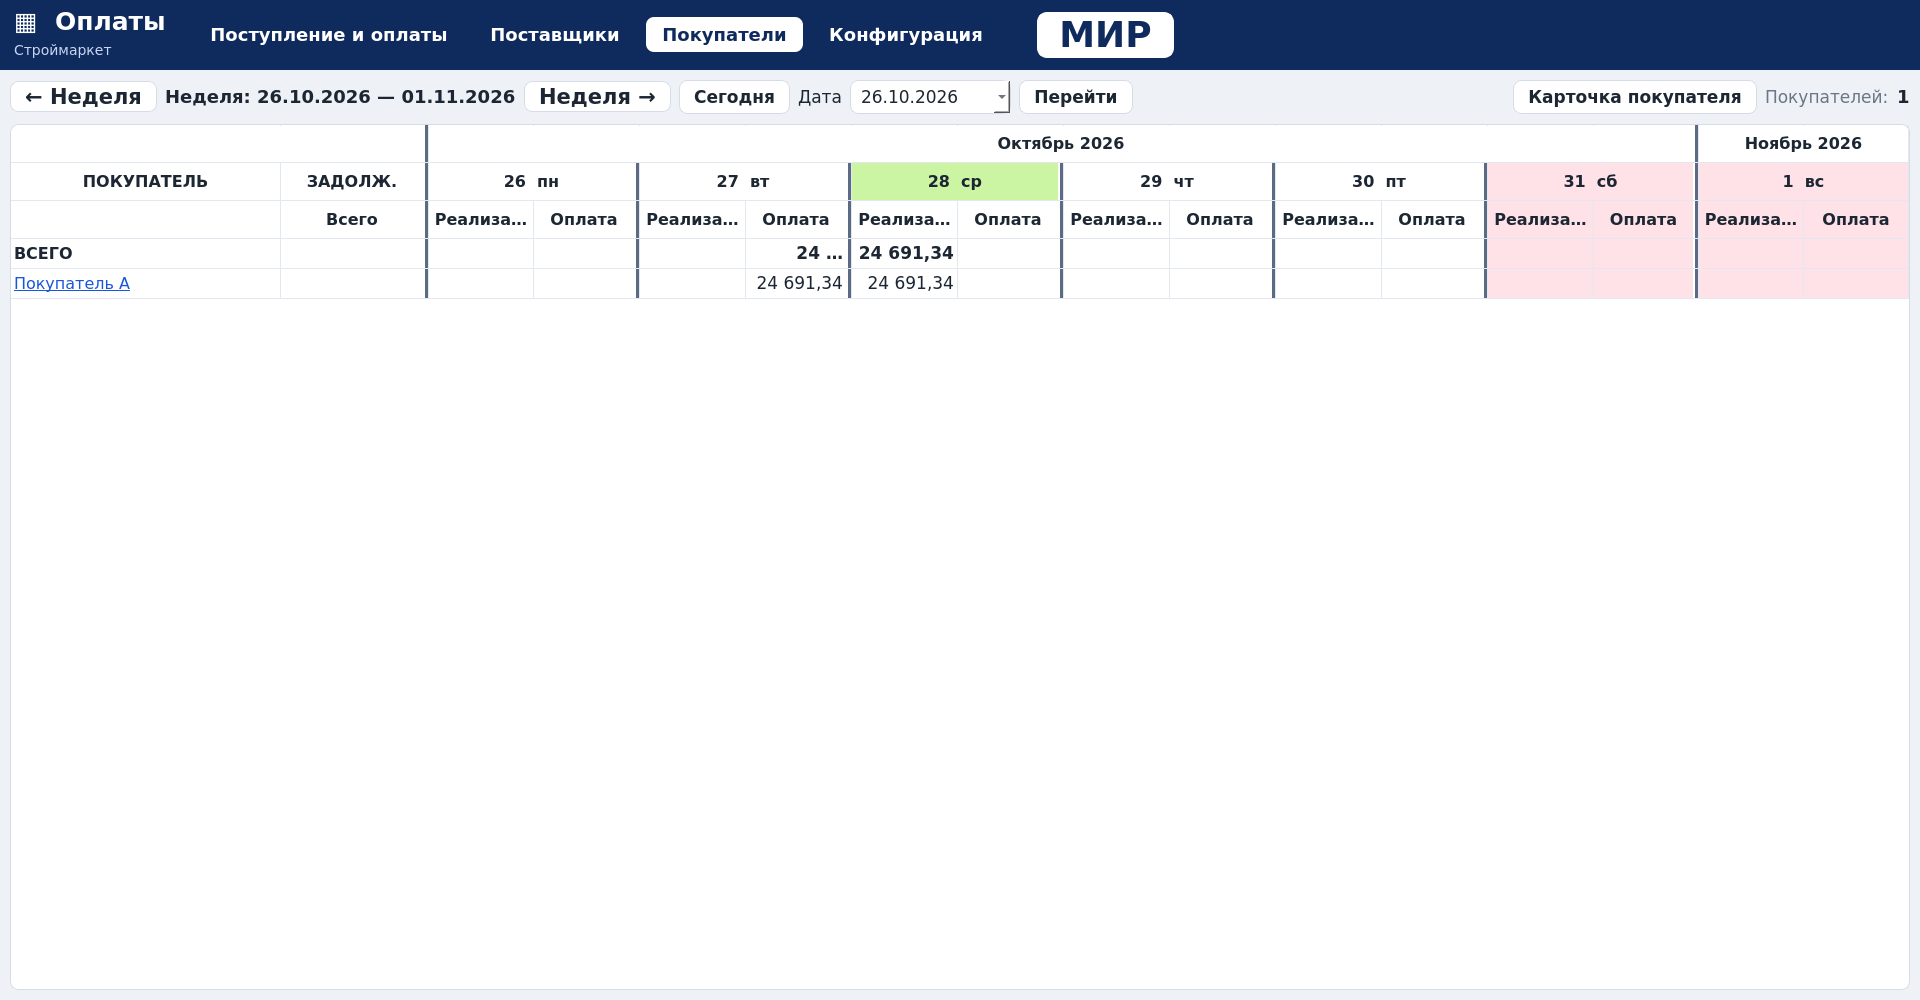
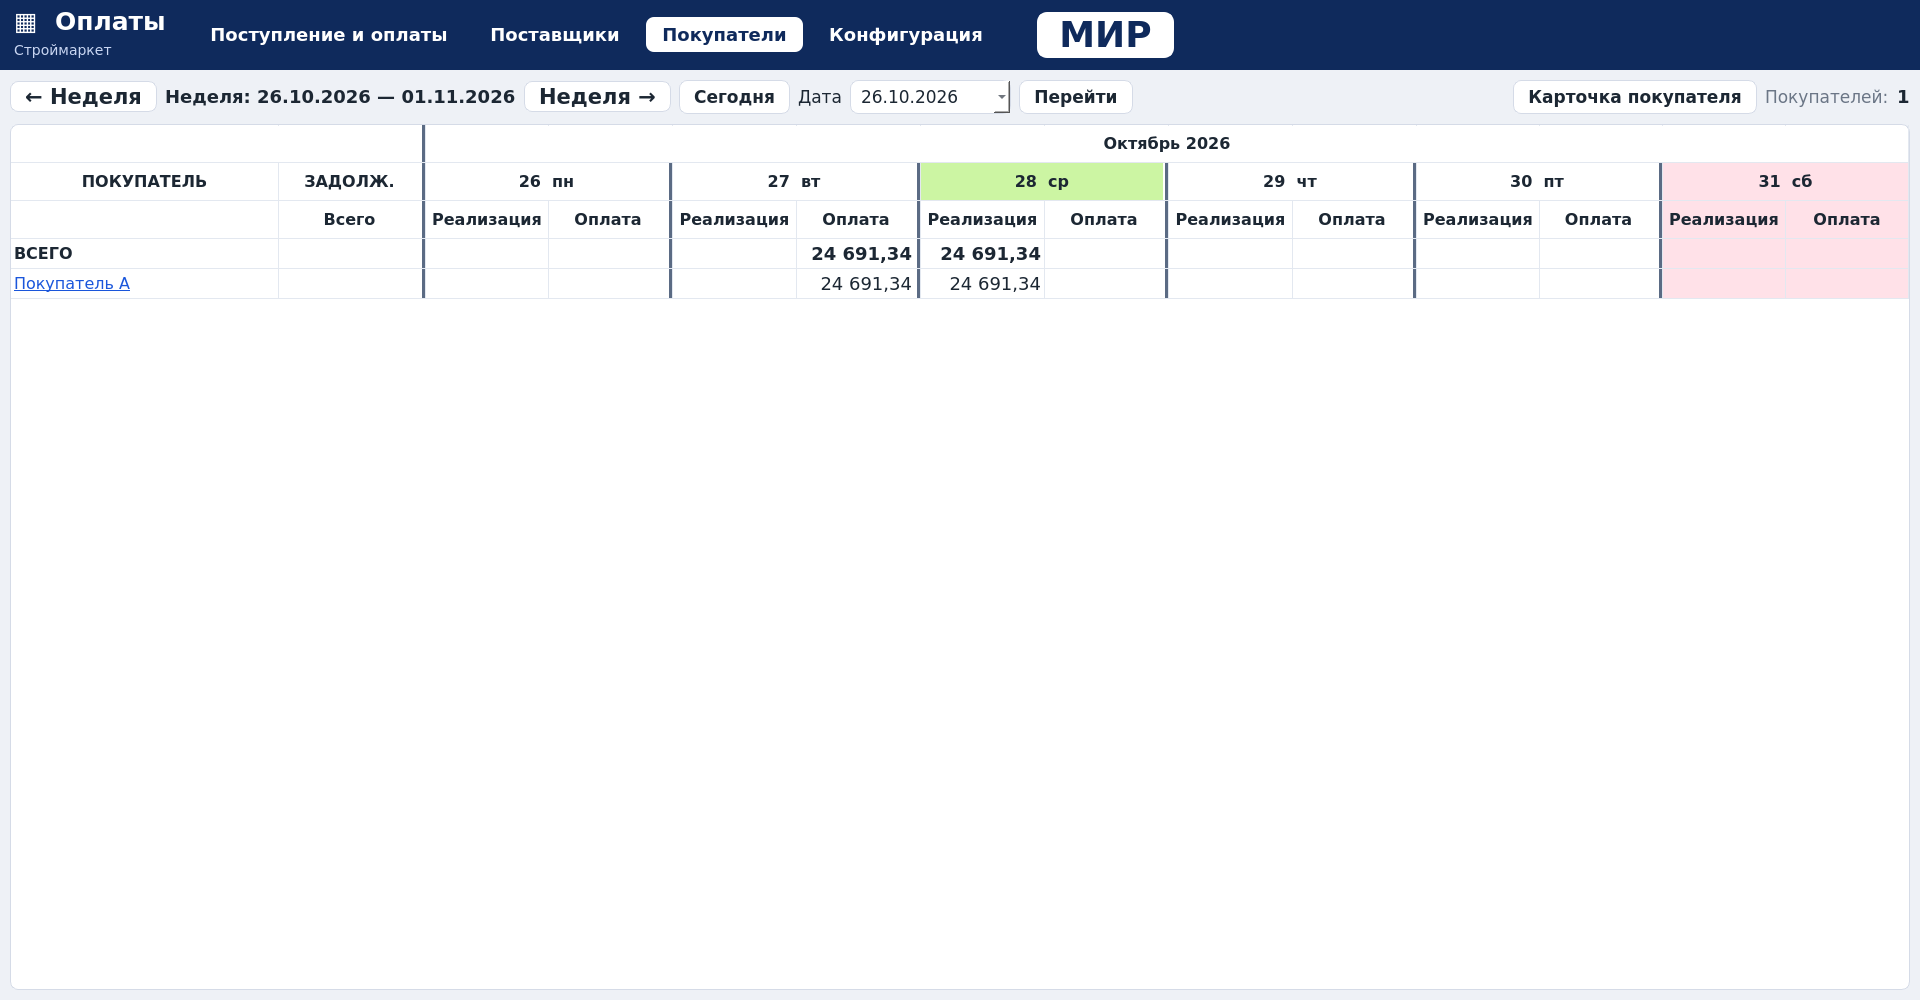
v0.19.0: без воскресенья в недельных таблицах, сумма «88 888,88» влезает

diff --git a/src/oplata/views/week_view.py b/src/oplata/views/week_view.py
@@ -153,6 +153,11 @@ class DaySeparatorDelegate(RowHoverMixin, QStyledItemDelegate):
         painter.restore()
 
 
+# Сколько дней показывает недельная таблица: понедельник–суббота, без
+# воскресенья (v0.18.0, запрос пользователя).
+TABLE_DAYS = 6
+
+
 class WeekView(QWidget):
     """``kind``: ``"supplier"`` | ``"customer"``."""
 
@@ -193,23 +198,32 @@ class WeekView(QWidget):
         # v0.16.0: у поставщиков три итоговых столбца — «просрочено»
         # (срок оплаты уже прошёл), «на сегодня» и «за неделю».
         self.lead_columns = 3 if kind == "supplier" else 1
-        self.column_count = 1 + self.lead_columns + 7 * self.columns_per_day
+        # v0.18.0: в таблице шесть дней — без воскресенья. Седьмая
+        # колонка съедала место, и сумма «88 888,88» не влезала.
+        # Расчёты при этом по-прежнему идут по полной неделе (пн–вс).
+        self.table_days = TABLE_DAYS
+        self.column_count = (
+            1 + self.lead_columns + self.table_days * self.columns_per_day
+        )
         self.separator_after_cols = {self.lead_columns} | {
             self.lead_columns + (day_index + 1) * self.columns_per_day
-            for day_index in range(6)
+            for day_index in range(self.table_days - 1)
         }
         # Ширины выросли вместе со шрифтом (+30%, v0.12.0): колонкам дней
         # нужно место под «88 888,88», иначе подгонка снизит шрифт сумм
         # до нечитаемого. Если окно узкое — появится горизонтальный скролл.
+        # v0.18.0: колонкам дней отдаём больше места (78 -> 92), чтобы
+        # «88 888,88» влезало при возможно большем шрифте: воскресенье
+        # убрали, и освободившееся место делим между днями.
         self.base_widths = (
             [200]
             + [110] * self.lead_columns
-            + [78] * (7 * self.columns_per_day)
+            + [92] * (self.table_days * self.columns_per_day)
         )
         self.min_widths = (
             [170]
             + [90] * self.lead_columns
-            + [68] * (7 * self.columns_per_day)
+            + [72] * (self.table_days * self.columns_per_day)
         )
         self.week_start = week_monday(date.today())
         self._partners: list[Counterparty] = []
@@ -523,6 +537,7 @@ class WeekView(QWidget):
         days: list[date],
         today: date,
         open_ended: bool = False,
+        week_end: date | None = None,
     ) -> tuple[Decimal, Decimal, Decimal]:
         """(просрочено на сегодня, итог за показанную неделю).
 
@@ -538,7 +553,9 @@ class WeekView(QWidget):
         """
         if not days:
             return ZERO, ZERO, ZERO
-        monday, sunday = days[0], days[-1]
+        # v0.18.0: ``days`` — это дни таблицы (без воскресенья), а
+        # считать надо по полной неделе, поэтому конец передают отдельно.
+        monday, sunday = days[0], week_end or days[-1]
         limit = monday - timedelta(days=1) if today < monday else min(today, sunday)
         overdue = (
             ZERO
@@ -582,7 +599,9 @@ class WeekView(QWidget):
         total_week = ZERO
         total_late = ZERO
         total_customer = ZERO
-        days = self._days
+        # v0.18.0: колонки дней в таблице — без воскресенья, расчёты
+        # при этом идут по полной неделе (self._days / self._week_end).
+        days = self._days[: self.table_days]
         self._rebuilding = True
         try:
             for r, (due_map, remaining_map) in enumerate(
@@ -596,6 +615,7 @@ class WeekView(QWidget):
                     days,
                     today,
                     open_ended=calc.is_open_ended(self._partners[r]),
+                    week_end=self._week_end,
                 )
                 total_overdue += overdue
                 total_week += week
@@ -610,13 +630,13 @@ class WeekView(QWidget):
                     # Покупатели: «Всего» = Реализация − Оплата (v0.15.0).
                     partner = self._partners[r]
                     debt = calc.customer_debt_amount(
-                        self.store.data, partner, days[0], days[-1]
+                        self.store.data, partner, days[0], self._week_end
                     )
                     total_customer += debt
                     self._set_cell_text(row, 1, _money_text(debt))
                 if "debt" in self.subheader_kinds:
                     debt_index = self.subheader_kinds.index("debt")
-                    for i, day in enumerate(self._days):
+                    for i, day in enumerate(days):
                         self._set_cell_text(
                             row,
                             self._day_column(i, debt_index),
@@ -628,7 +648,7 @@ class WeekView(QWidget):
                 self._set_cell_text(TOTAL_ROW, 3, _money_text(total_week))
             else:
                 self._set_cell_text(TOTAL_ROW, 1, _money_text(total_customer))
-            for i, day in enumerate(self._days):
+            for i, day in enumerate(days):
                 for j, kind_name in enumerate(self.subheader_kinds):
                     if kind_name == "debt":
                         amount = sum((m.get(day, ZERO) for m in due_maps), ZERO)
@@ -656,7 +676,10 @@ class WeekView(QWidget):
         partners = self.counterparties()
         days = week_days(self.week_start)
         self._partners = partners
+        # Расчётная неделя — полная (пн–вс): долги и оплаты считаются
+        # по всем семи дням, даже если в таблице их не показываем.
         self._days = days
+        self._week_end = days[-1]
         today = date.today()
         set_date_edit(self.date_edit, self.week_start)
         self.week_label.setText(
@@ -664,7 +687,8 @@ class WeekView(QWidget):
         )
         if self.kind == "customer":
             self.right_value_label.setText(str(len(partners)))
-        self._rebuild_table(partners, days, today)
+        # В таблицу уходят только первые TABLE_DAYS дней (без воскресенья).
+        self._rebuild_table(partners, days[: self.table_days], today)
 
     # --------------------------------------------------------------- таблица
     def _rebuild_table(self, partners, days, today) -> None:
@@ -793,7 +817,11 @@ class WeekView(QWidget):
         remaining_maps = self._remaining_due_maps()
         debt_columns = [
             self._debt_columns(
-                m, days, today, open_ended=calc.is_open_ended(partner)
+                m,
+                days,
+                today,
+                open_ended=calc.is_open_ended(partner),
+                week_end=self._week_end,
             )
             for m, partner in zip(remaining_maps, partners)
         ]
@@ -809,7 +837,7 @@ class WeekView(QWidget):
         if self.kind != "supplier":
             customer_debts = [
                 calc.customer_debt_amount(
-                    self.store.data, partner, days[0], days[-1]
+                    self.store.data, partner, days[0], self._week_end
                 )
                 for partner in partners
             ]
@@ -960,7 +988,11 @@ class WeekView(QWidget):
                 diff += 1
         for col, width in enumerate(widths):
             table.setColumnWidth(col, width)
-        self._fit_amount_font(widths[3])
+        # v0.18.0: ширину берём у колонки дня (первая после итоговых),
+        # а не у фиксированного индекса: тот указывал на итоговую
+        # колонку, и шрифт сумм подбирался слишком крупным —
+        # «88 888,88» не влезало.
+        self._fit_amount_font(min(widths[1 + self.lead_columns:]))
 
     def _fit_amount_font(self, day_column_width: int) -> None:
         """Подобрать размер шрифта сумм так, чтобы «88 888,88» влезало целиком."""

diff --git a/tests/test_ui_smoke.py b/tests/test_ui_smoke.py
@@ -145,7 +145,9 @@ def test_week_table_income_and_payment_input(qt_app, store):
     assert bg_name(1, _DAY(view, 4, 0)) == styles.WEEK_TABLE_WEEKEND_PINK  # праздник
     assert bg_name(FIRST_DATA_ROW, _DAY(view, 4, 0)) == styles.WEEK_TABLE_WEEKEND_PINK
     assert bg_name(FIRST_DATA_ROW, _DAY(view, 5, 0)) is None  # рабочая суббота
-    assert bg_name(FIRST_DATA_ROW, _DAY(view, 6, 0)) == styles.WEEK_TABLE_WEEKEND_PINK
+    # v0.18.0: воскресенье из таблицы убрали — колонок дней шесть.
+    assert view.table_days == 6
+    assert table.columnCount() == 1 + view.lead_columns + 6 * view.columns_per_day
     assert bg_name(FIRST_DATA_ROW, 3) is None  # обычный понедельник без заливки
     assert view.date_edit.minimumWidth() >= 138  # год не под стрелкой календаря
     assert view.date_edit.calendarPopup()
@@ -531,12 +533,12 @@ def test_customer_sale_table_and_direct_input(qt_app, store):
     today = date(2026, 10, 27)
     view.goto_date(monday)
     store.data.day_overrides[today.isoformat()] = "off"
-    view._rebuild_table(view._partners, view._days, today)
+    view._rebuild_table(view._partners, view._days[: view.table_days], today)
     table = view.table
 
     # v0.15.0: у покупателей нет столбца «просрочено» — 1 имя + 1 итог
-    # («Всего») + 7 дней * 2 подколонки.
-    assert table.columnCount() == 16
+    # («Всего»). v0.18.0: дней в таблице шесть, без воскресенья.
+    assert table.columnCount() == 14
     assert table.item(1, 1).text() == "ЗАДОЛЖ."
     assert table.item(2, 1).text() == "Всего"
     assert table.item(2, 2).text() == "Реализация"
@@ -1878,4 +1880,41 @@ def test_users_are_listed_in_configuration_and_password_gate(
     window.data_view.users_save_btn.click()
     qt_app.processEvents()
     assert "Кладовщик" in [user.name for user in access_module.load_users()]
+    window.close()
+
+
+def test_amount_text_fits_into_day_column(qt_app, store):
+    """v0.18.0: «88 888,88» влезает в колонку дня при любой ширине окна."""
+    from PySide6.QtGui import QFont, QFontMetrics
+
+    from oplata.app import MainWindow
+    from oplata.views.week_view import MAX_AMOUNT_TEXT, TABLE_DAYS
+
+    window = MainWindow(store)
+    window.show()
+    qt_app.processEvents()
+
+    view = window.suppliers_view
+    # Воскресенье из таблицы убрали: дней шесть.
+    assert view.table_days == TABLE_DAYS == 6
+    assert view.table.columnCount() == (
+        1 + view.lead_columns + TABLE_DAYS * view.columns_per_day
+    )
+
+    for width in (640, 1200, 1880):
+        view.table.setFixedWidth(width)
+        view._fit_columns_to_width()
+        qt_app.processEvents()
+        col = view._day_column(0, 0)  # первый день, первая подколонка
+        day_width = view.table.columnWidth(col)
+        item = view.table.item(4, col)  # строка первого контрагента
+        assert item is not None
+        font = QFont(view.table.font())
+        font.setPixelSize(item.font().pixelSize())
+        font.setBold(True)
+        advance = QFontMetrics(font).horizontalAdvance(MAX_AMOUNT_TEXT)
+        assert advance <= day_width - 8, (
+            f"ширина колонки {day_width}: «{MAX_AMOUNT_TEXT}» "
+            f"занимает {advance} px"
+        )
     window.close()

diff --git a/src/oplata/__init__.py b/src/oplata/__init__.py
@@ -6,5 +6,5 @@
 открытые вопросы в ``docs/ROADMAP.md``.
 """
 
-__version__ = "0.18.0"
+__version__ = "0.19.0"
 __app_name__ = "Оплаты — Строймаркет"

diff --git a/CHANGELOG.md b/CHANGELOG.md
@@ -8,6 +8,21 @@
 
 <!-- Сюда писать новые изменения до следующего релиза. -->
 
+## [0.19.0] — 2026-10-28 · Воскресенье убрано из недельных таблиц, сумма влезает
+
+- **В недельных таблицах («Поставщики», «Покупатели») больше нет
+  воскресенья**: шесть дней, понедельник–суббота. Седьмой день съедал
+  место, и сумма не влезала в колонку. Расчёты при этом идут **по
+  полной неделе (пн–вс)** — долги, оплаты и «за неделю» считаются
+  так же, как раньше.
+- **Исправлен подбор шрифта сумм**: размер подбирался по ширине
+  итоговой колонки, а не дневной (индекс съехал, когда у поставщиков
+  появился третий итоговый столбец). Из-за этого «88 888,88»
+  вылезало за границу ячейки. Теперь берётся самая узкая колонка дня.
+- **Колонки дней стали шире** (базовая ширина 78 → 92, минимальная
+  68 → 72): на экране Full HD шрифт сумм 12 px вместо прежних
+  10–11 px, и «88 888,88» влезает целиком.
+
 ## [0.18.0] — 2026-10-28 · Пользователи и права (Администратор, Руководитель, МИР, КОРЕЛИЧИ)
 
 Программа работает на четырёх компьютерах, соединённых интернетом

diff --git a/docs/SPEC.md b/docs/SPEC.md
@@ -92,6 +92,11 @@
 
 ## 2. Поставщики (неделя) — макет из 1-го сообщения + `08-week-day-separators.png` ✅
 
+- **В таблице шесть дней — понедельник–суббота, без воскресенья**
+  (v0.19.0, запрос пользователя): освободившееся место отдано колонкам
+  дней, чтобы сумма «88 888,88» влезала целиком. Расчёты долгов, оплат
+  и «за неделю» по-прежнему считаются по полной неделе (пн–вс).
+
 > Файл макета из 1-го сообщения был перезаписан при повторной загрузке
 > картинок — экран восстановлен по описанию и по аналогичному экрану
 > «Покупатели» (`03-customers-week.png`).
